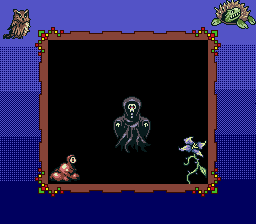
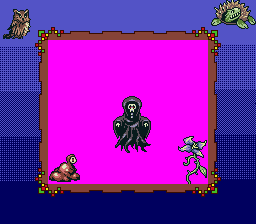
SGB border fixes

diff --git a/tools/conv/sfcconv.cpp b/tools/conv/sfcconv.cpp
@@ -30,6 +30,7 @@ enum : uint32_t
 enum : uint16_t
 {
 	kBGR555_Invalid = 0x8000U,
+	kBGR555_ClearColor = 0x7C1FU,
 };
 
 ////////////////////////////////////////////////////////////////////////////////
@@ -98,7 +99,7 @@ static double getLuminance(const ColorBGR555 color)
 static void sortColors(ColorBGR555* colors, uint32_t count)
 {
 	sort(
-		colors, colors + count,
+		colors + 1, colors + count - 1,
 		[](const ColorBGR555 lhs, const ColorBGR555 rhs)
 		{
 			return getLuminance(lhs) < getLuminance(rhs);
@@ -235,6 +236,7 @@ struct Palette
 		{
 			colors[i] = kBGR555_Invalid;
 		}
+		colors[0] = kBGR555_ClearColor;
 	}
 
 	ColorBGR555 colors[kColorsPerPalette];
@@ -262,7 +264,7 @@ static bool extractTilePalette(Palette& out_tile_palette, const ColorRGBA* pixel
 		return false;
 	}
 
-	uint32_t c = 0;
+	uint32_t c = 1;
 	for(ColorBGR555 color : colors)
 	{
 		out_tile_palette.colors[c] = color;
@@ -298,7 +300,7 @@ static bool mergePalettes(Palette& out_palette, const Palette lhs, const Palette
 		return false;
 	}
 
-	uint32_t c = 0;
+	uint32_t c = 1;
 	for(ColorBGR555 color : colors)
 	{
 		out_palette.colors[c] = color;
